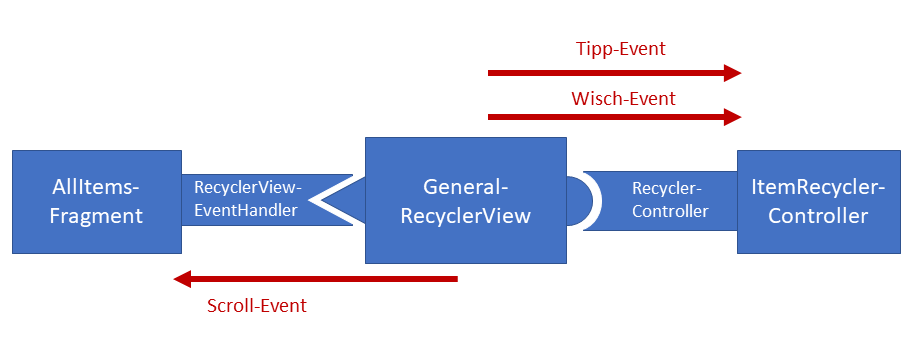
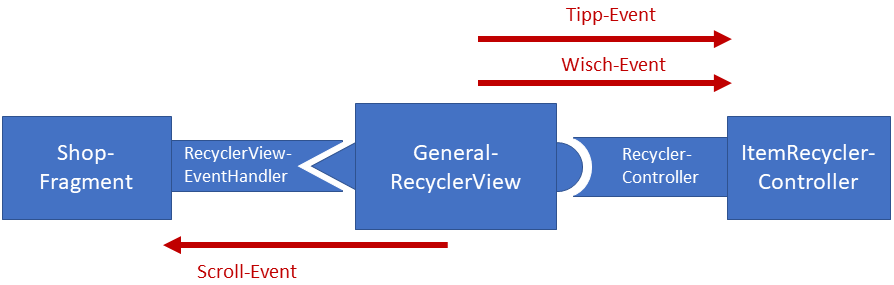
edited list implementation section

diff --git a/architektur.tex b/architektur.tex
@@ -61,22 +61,22 @@ Auch der BarcodeScanner ist eine eigene Activity, da die BarcodeScanner Library 
 In weiten Teilen der App werden die Daten in Listen angezeigt.
 Dafür wurde die ressourcensparende Listen-Klasse \texttt{RecyclerView} verwendet.
 Zur Vermeidung von Redundanz, wurde die in Abbildung~\ref{fig:recyclerview-diagram} gezeigte Architektur implementiert.
-Sie ist am Beispiel des \texttt{AllItems}-Fragments (Fragment für die Shop-Ansicht) dargestellt.
+Sie ist am Beispiel des Shop-Fragments dargestellt.
 
 Der Kern dieser Architektur ist das \texttt{GeneralRecyclerView}.
-Ein Fragment mit einem \texttt{RecyclerView}, wird über das Interface RecyclerViewEventHandler bei Events benachrichtigt.
-Wenn beispielsweise die Liste im AllItemsFragment nach Unten gescrollt wird, erfährt es dies über ein Scroll-Event vom \texttt{GeneralRecyclerView}.
-Das \texttt{AllItems}-Fragment lässt darauf folgend den Einkaufswagen-Button verschwinden.
+Ein Fragment, das eine Liste in Form eines \texttt{GeneralRecyclerView} anzeigt, implementiert das Interface \texttt{RecyclerViewEventHandler} und wird dadurch bei auftretenden Events benachrichtigt.
+Wenn beispielsweise die Liste im Shop-Fragment nach Unten gescrollt wird, erfährt es dies über ein Scroll-Event vom \texttt{GeneralRecyclerView}.
+Das Shop-Fragment lässt darauf folgend den Einkaufswagen-Button verschwinden.
 
 Damit das \texttt{GeneralRecyclerView} unabhängig ist von den Daten, die es darstellt, ist es über das \texttt{RecyclerController}-Interface mit dem \texttt{ItemRecyclerController} verbunden.
 Bei einem auftretenden Event, benachrichtigt es den \texttt{ItemReyclerController}, der Änderungen an Daten über das Backend vornimmt.
-Führt der Benutzer beispielsweise eine Wisch-Bewegung im \texttt{AllItems}-Fragment durch, um einen Artikel zu löschen, dann der \texttt{ItemRecyclerController} benachrichtigt und löscht den Artikel aus dem Datenmodell.
+Führt der Benutzer beispielsweise eine Wisch-Bewegung im Shop-Fragment durch, um einen Artikel zu löschen, wird der \texttt{ItemRecyclerController} benachrichtigt und löscht den Artikel aus dem Datenmodell.
 
-Das im Beispiel verwendete \texttt{AllItems}-Fragment kann durch jedes beliebige anderen Fragment ersetzt werden.
-Um ein \texttt{RecyclerView} für eine neue Art von Daten zu implementieren, muss nur ein neuer RecyclerController geschrieben werden.
+Das im Beispiel verwendete Shop-Fragment, kann durch jedes beliebige anderen Fragment ersetzt werden und ermöglichst damit eine einfache Einbindung des \texttt{RecyclerViews} in jedes Fragment.
+Um ein \texttt{RecyclerView} für eine neue Art von Daten zu implementieren, muss nur ein neuer \texttt{RecyclerController} geschrieben werden.
 Damit können \texttt{RecyclerViews} auf einfache Art, neuen Daten zugänglich gemacht werden.
 
-\cfigureLarge{figures/recyclerview-diagram.png}{RecyclerView Architektur am Beispiel des AllItems-Fragments}{\label{fig:recyclerview-diagram}}
+\cfigureLarge{figures/recyclerview-diagram.png}{RecyclerView Architektur am Beispiel des Shop-Fragments}{\label{fig:recyclerview-diagram}}
 
 \subsubsection{Kommunikation mit dem Backend-Layer}
 
